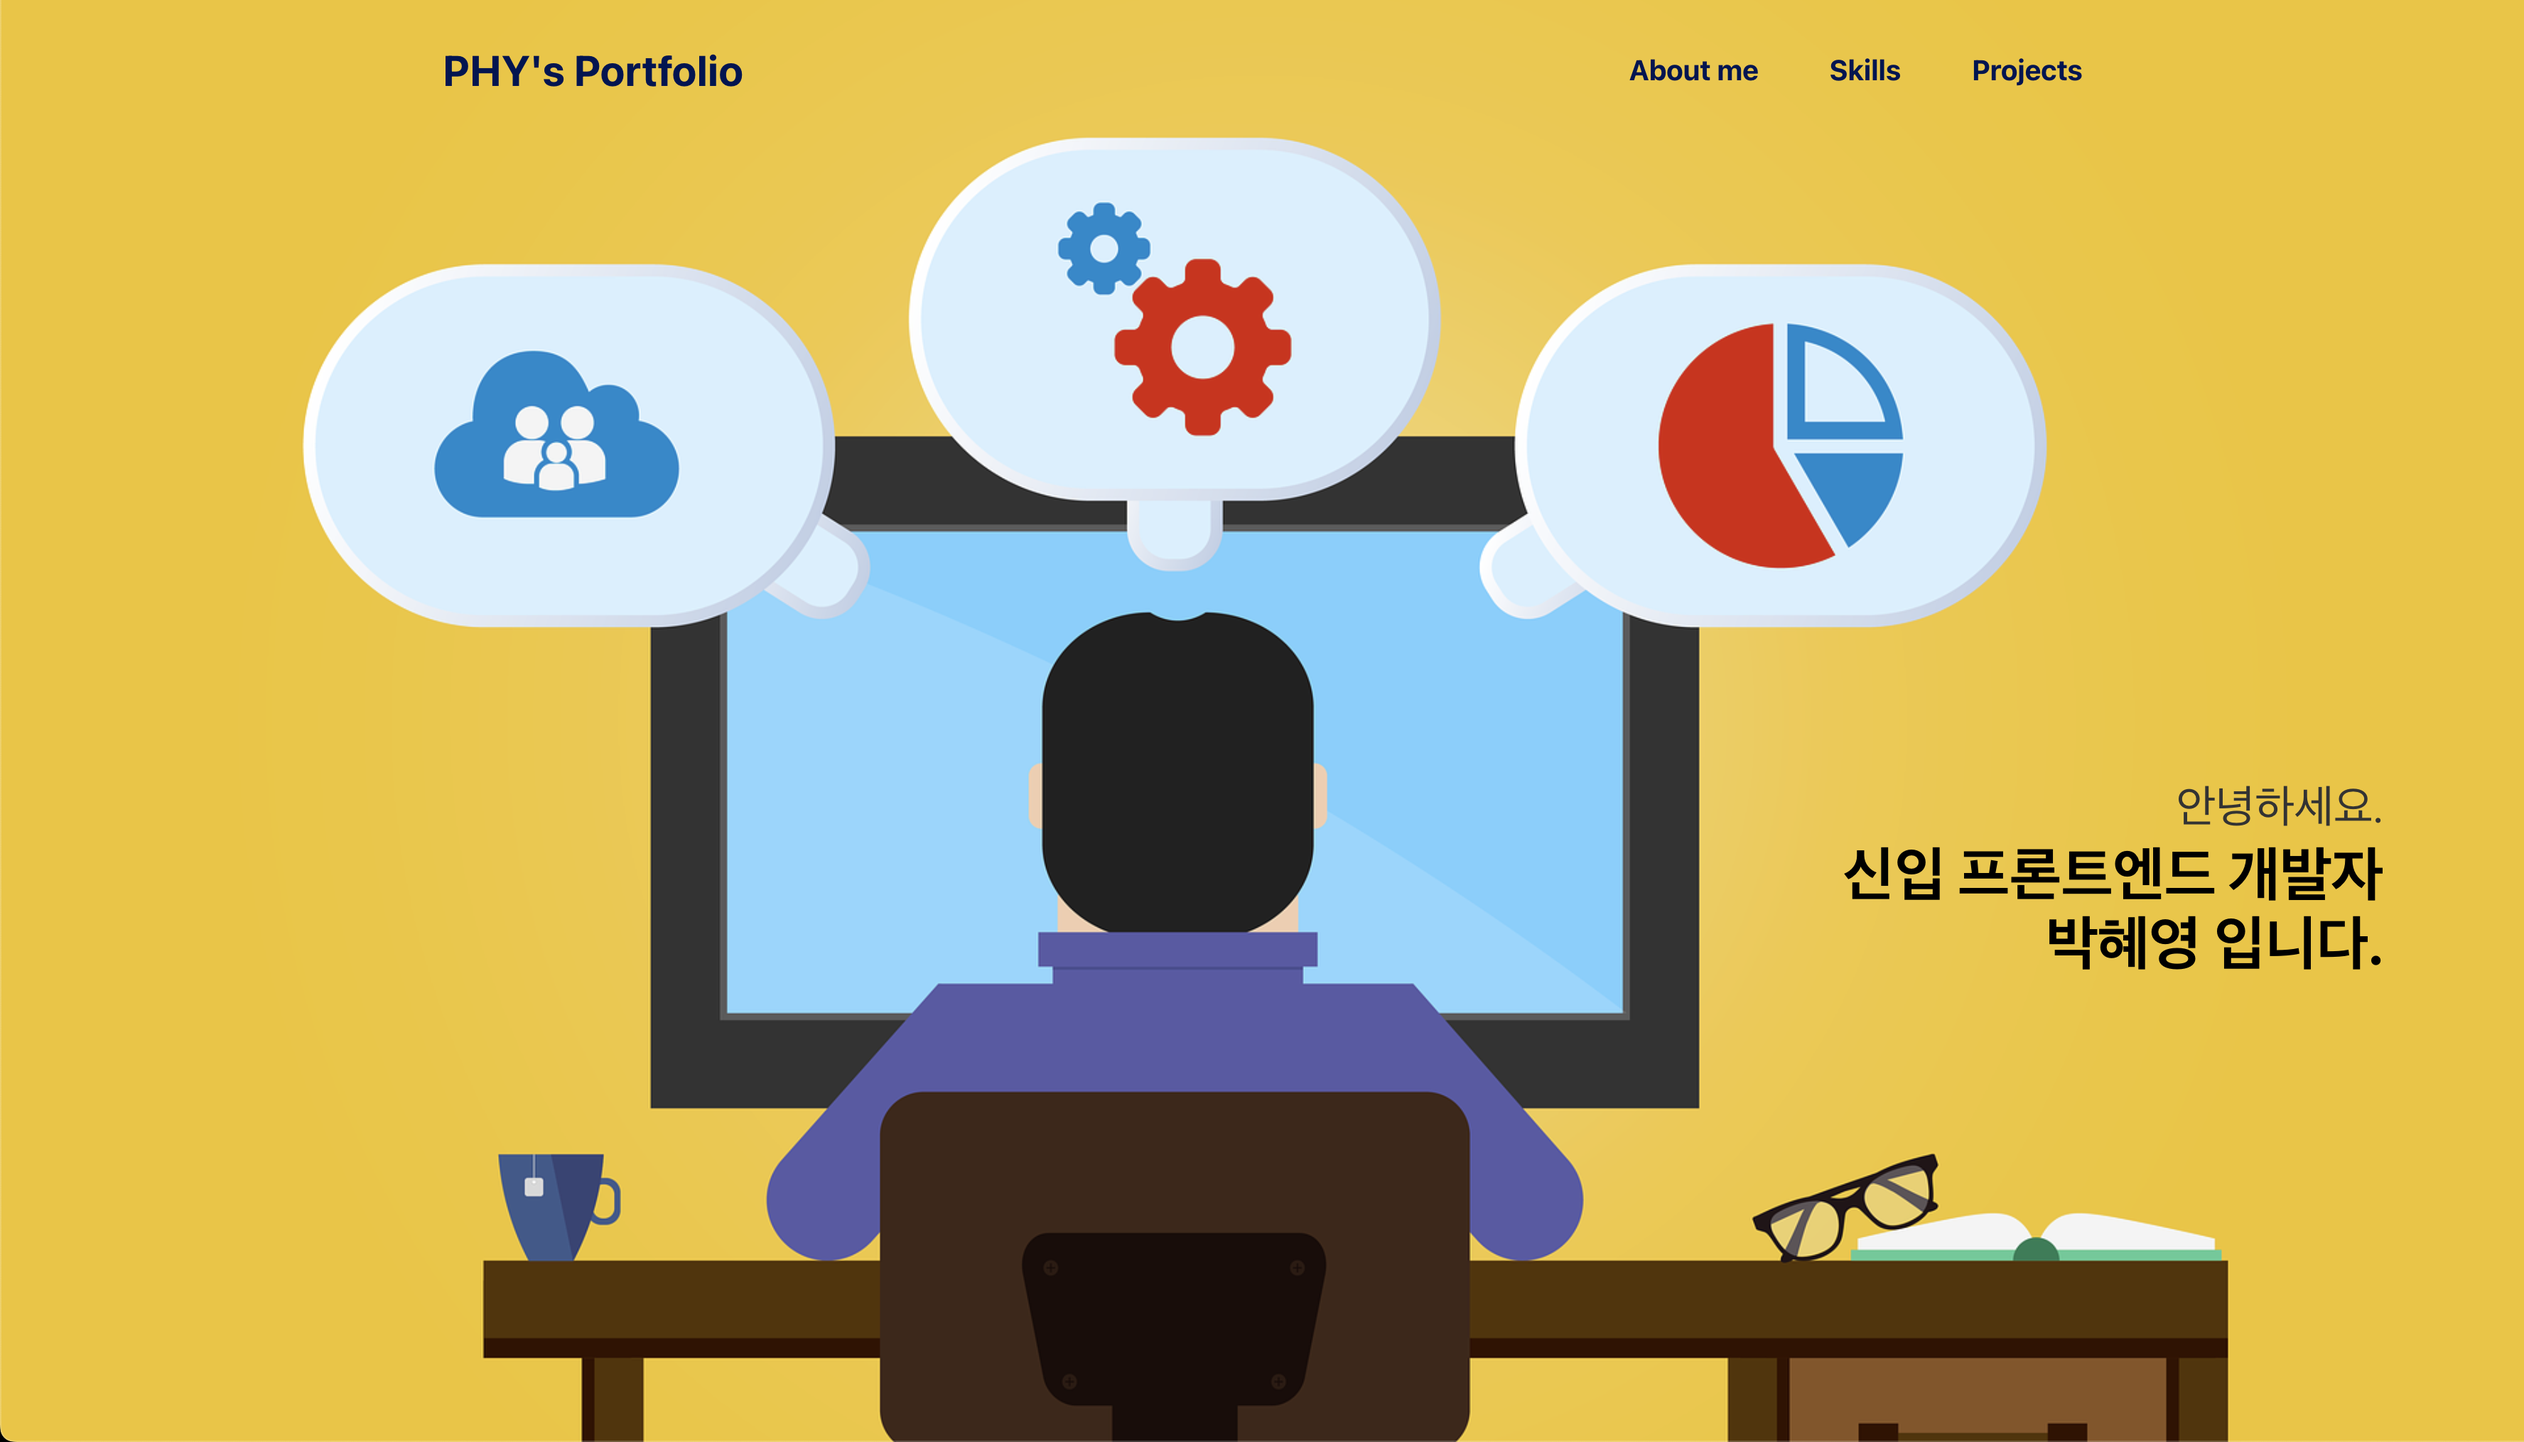
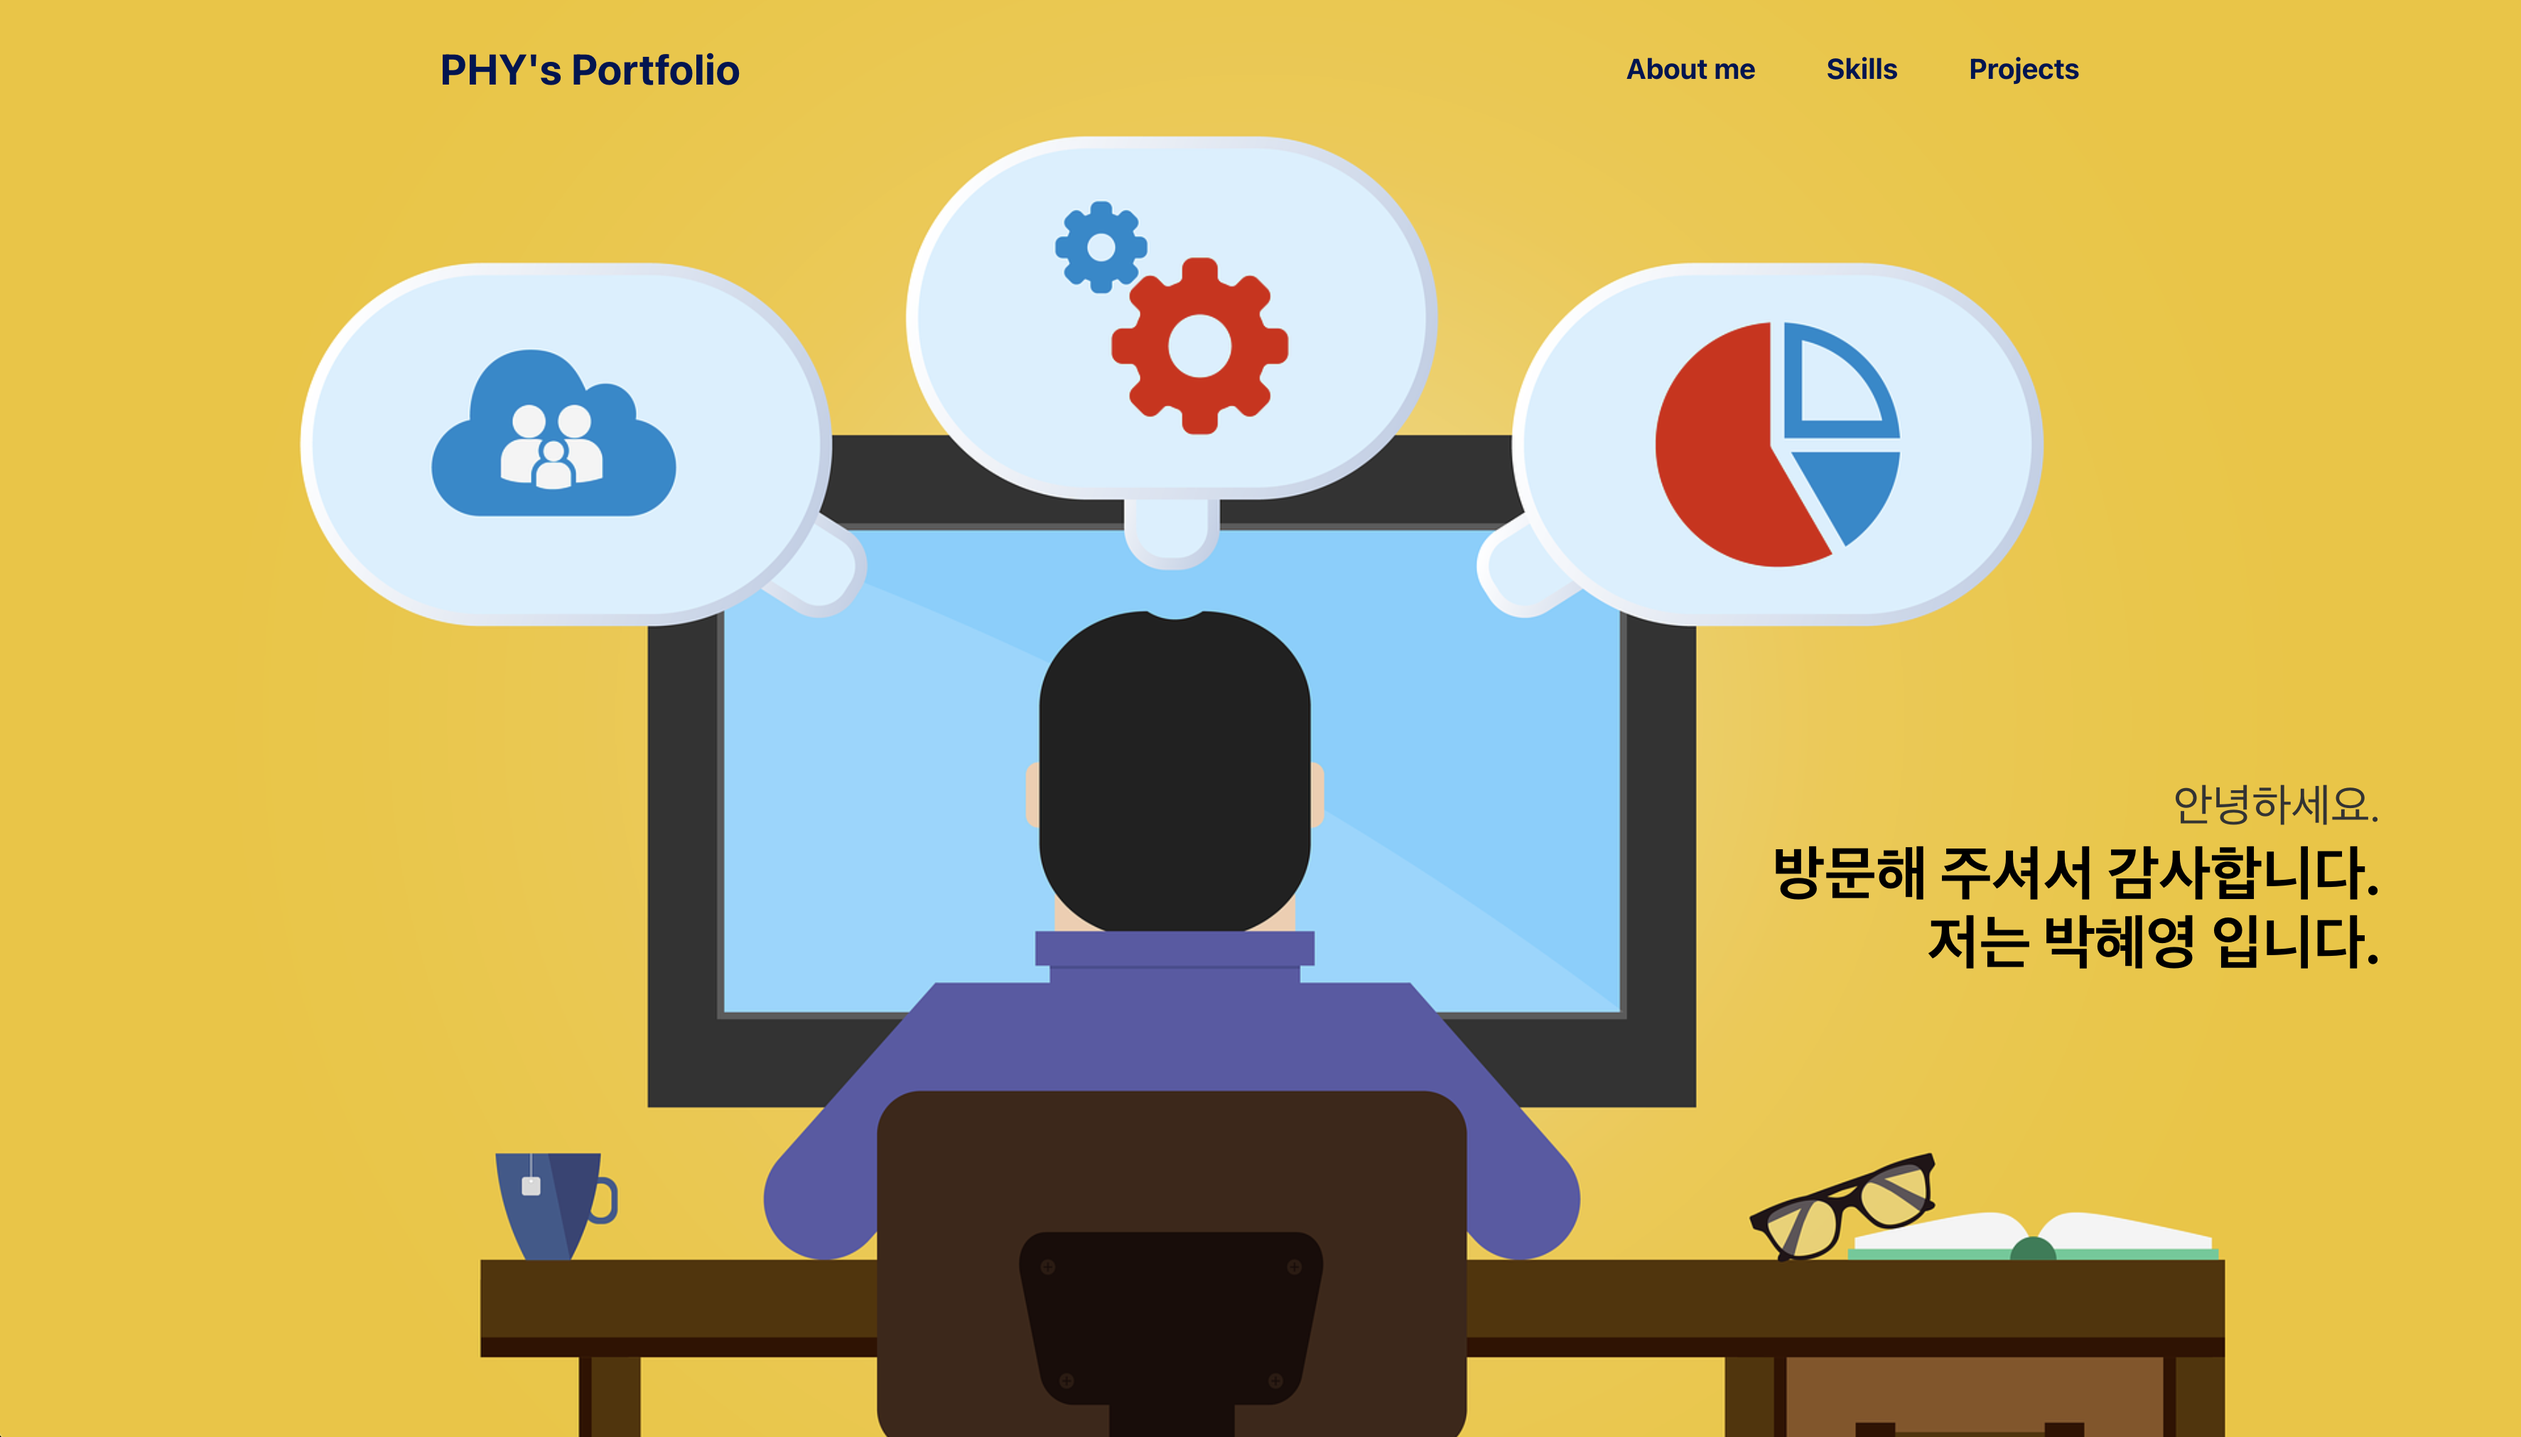
Main-Portfolio Site 이미지 변경

diff --git a/src/components/Main.js b/src/components/Main.js
@@ -5,7 +5,7 @@ function Main() {
   return(
     <div className="main__bg">
       <div className="main__text1">안녕하세요.</div>
-      <div className="main__text2 display-enter"><TypingText text={"박혜영 입니다. \n 제 포트폴리오 사이트에 와주셔서 감사합니다."} /></div>
+      <div className="main__text2 display-enter"><TypingText text={"방문해 주셔서 감사합니다. \n 저는 박혜영 입니다."} /></div>
     </div>
   )
 }
